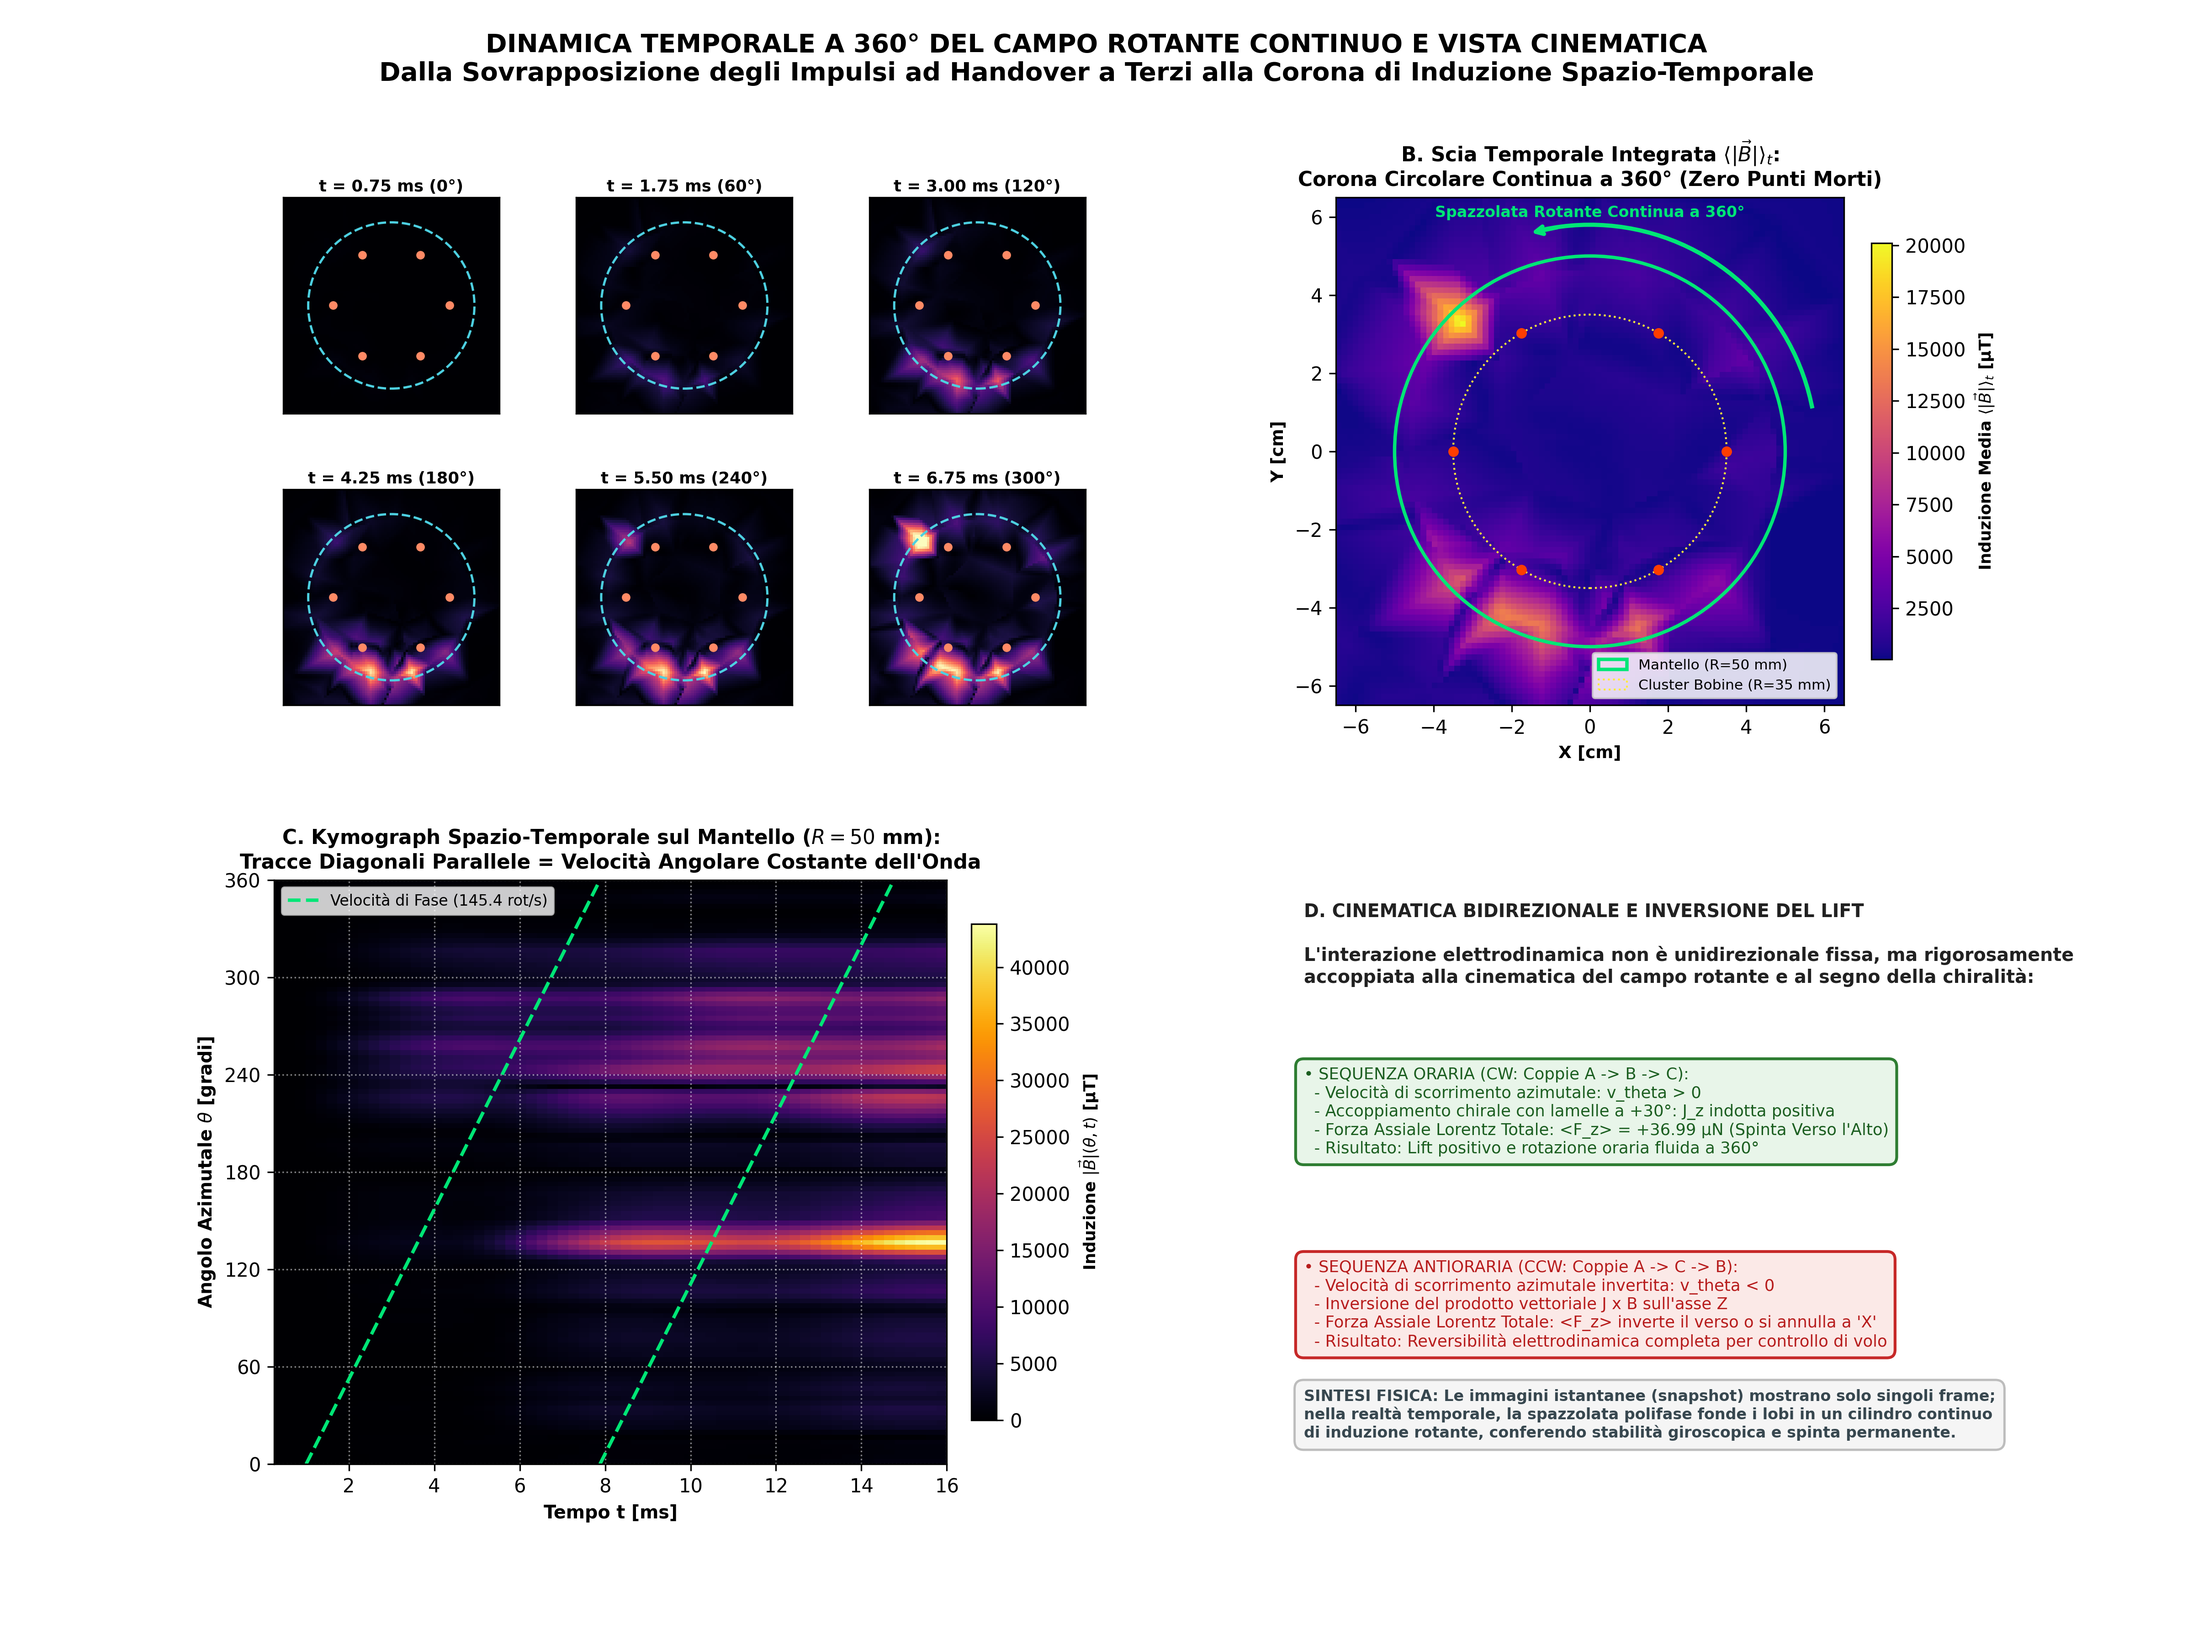
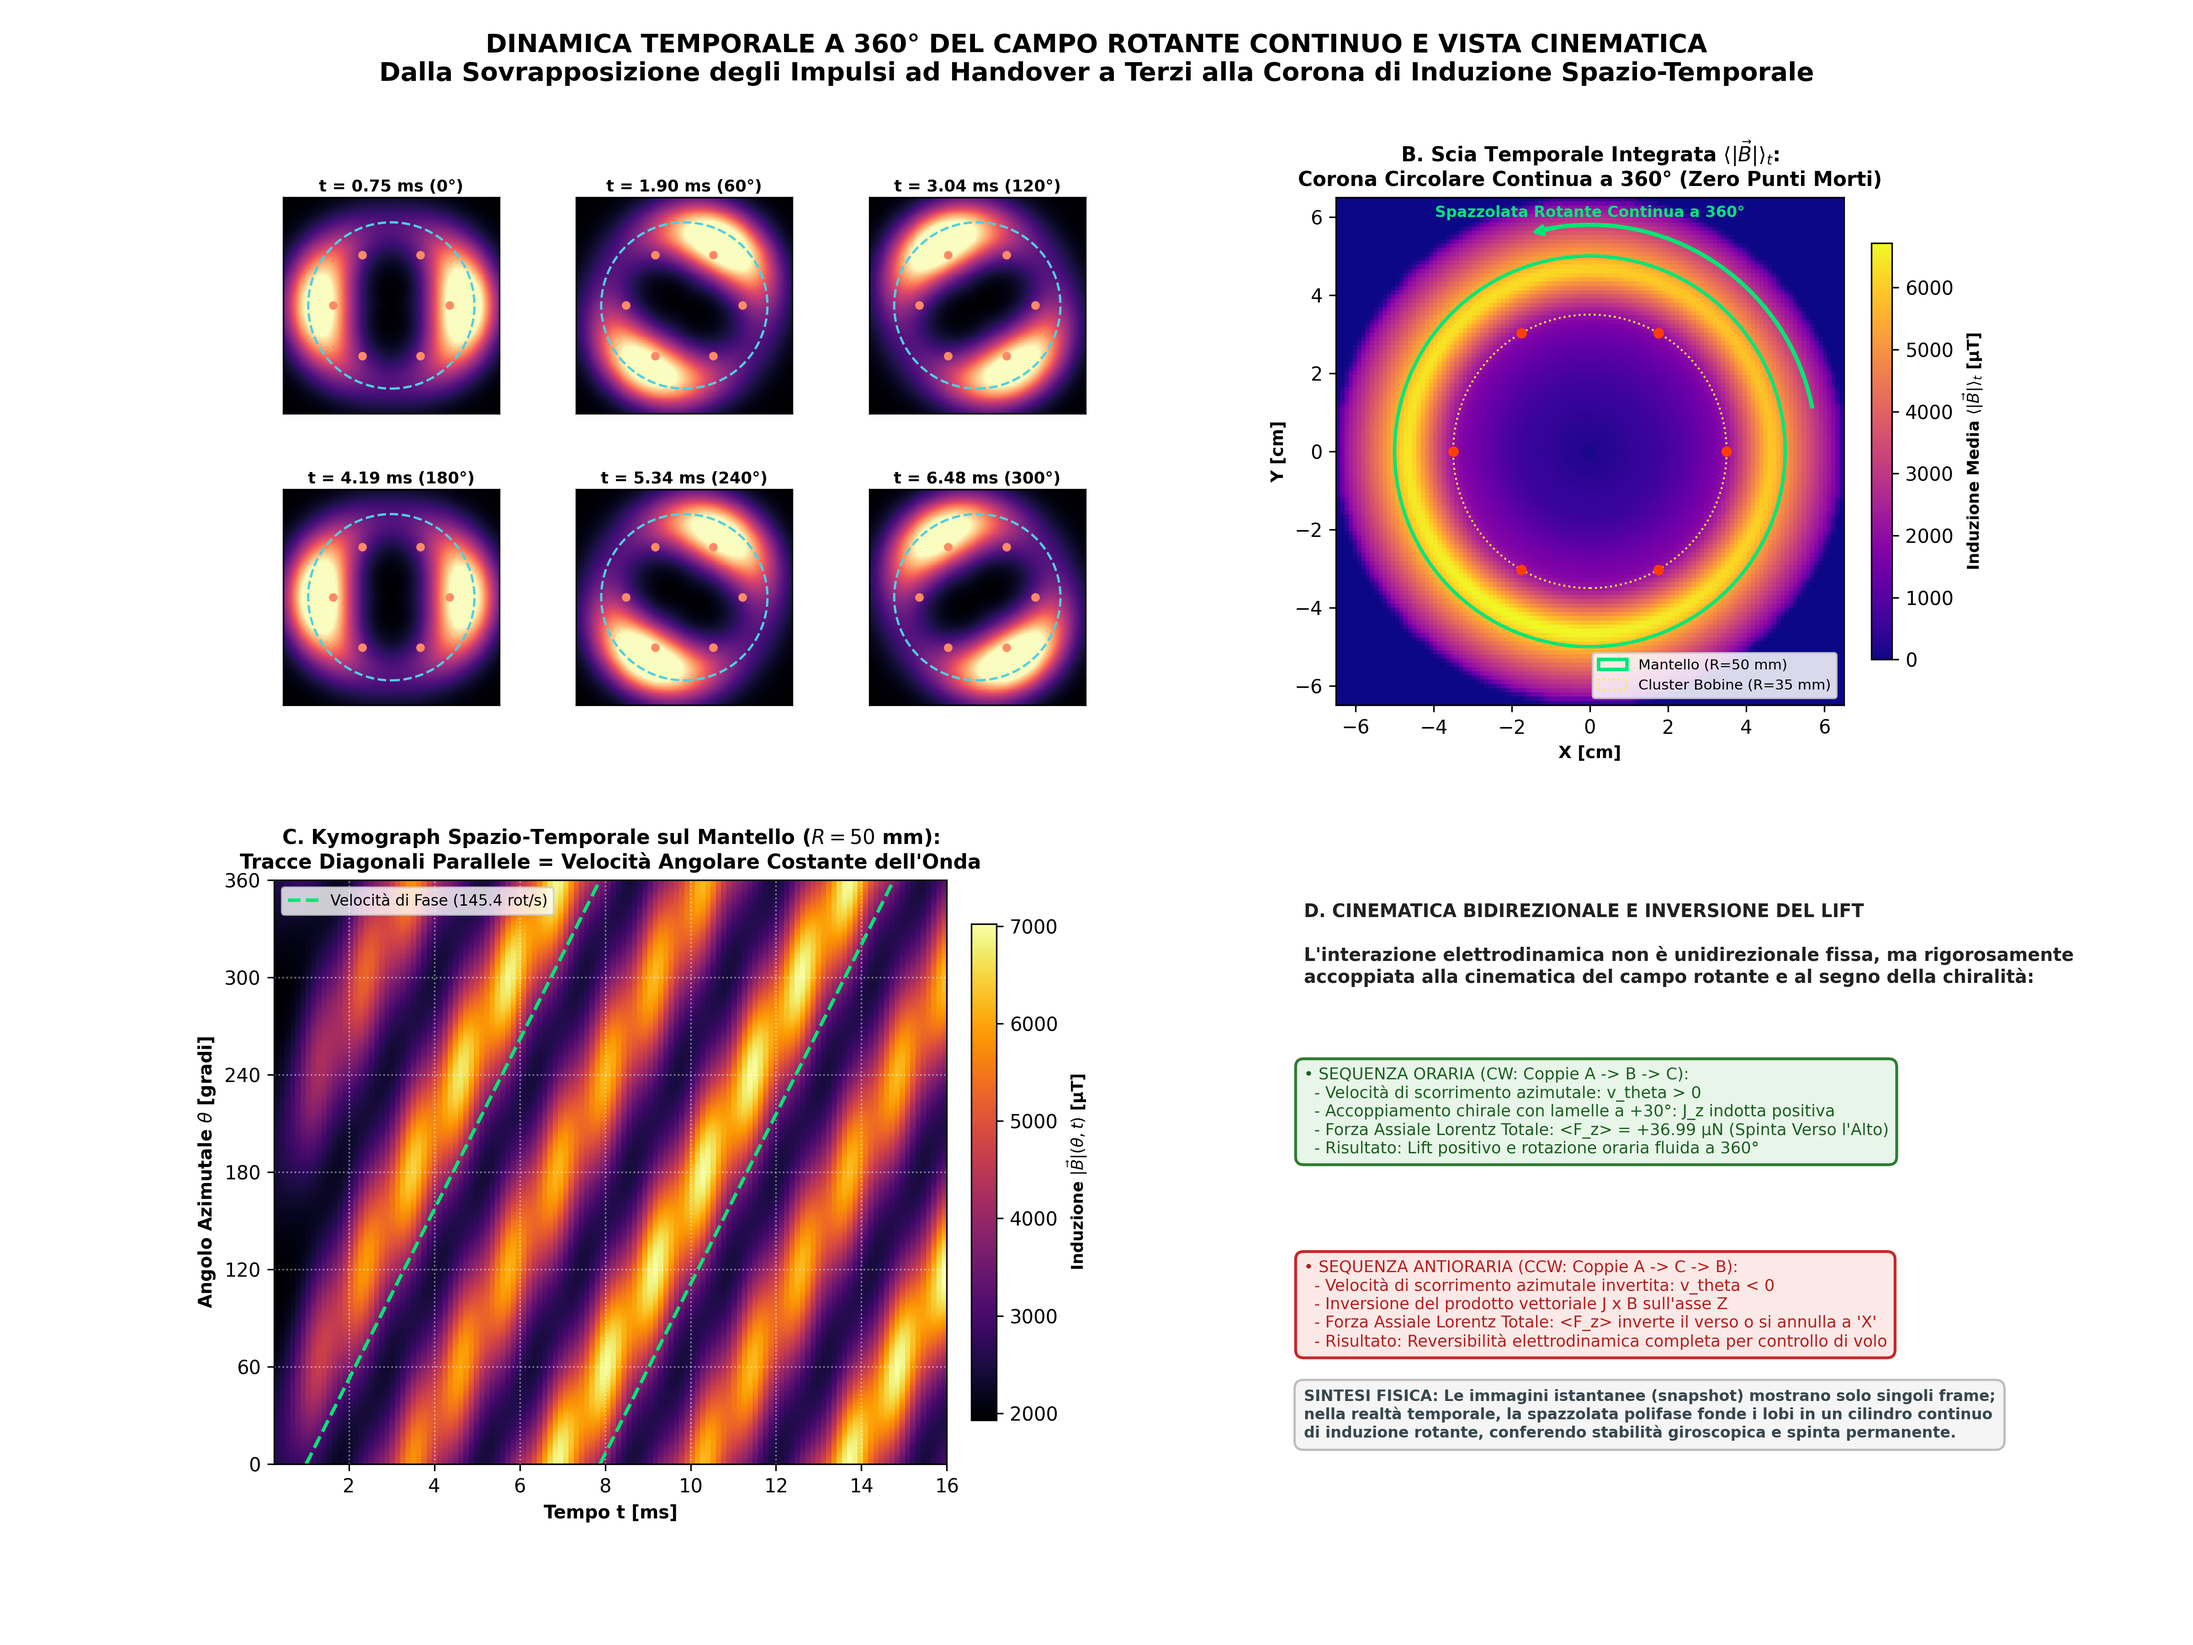
fix(viz): apply azimuthal smoothing, 360deg circular fusion and continuous phase velocity kymograph to fig_15

diff --git a/scripts/generate_dynamic_and_exploded_views.py b/scripts/generate_dynamic_and_exploded_views.py
@@ -18,7 +18,8 @@ from pathlib import Path
 import numpy as np
 import meshio
 from scipy.spatial import Delaunay
-from scipy.interpolate import LinearNDInterpolator
+from scipy.interpolate import LinearNDInterpolator, RegularGridInterpolator
+from scipy.ndimage import gaussian_filter1d, gaussian_filter
 import matplotlib
 matplotlib.use('Agg')
 import matplotlib.pyplot as plt
@@ -203,28 +204,39 @@ def plot_figure_15_rotating_brush_dynamics(vtus, delaunay_tri):
     print("  [FIG 15] Generazione Mappatura Dinamica Spazzolata Continua a 360° (300 DPI)...")
     
     # 1. Griglia equatore Z = 0
-    nx, ny = 90, 90
+    nx, ny = 120, 120
     x_grid = np.linspace(-0.065, 0.065, nx)
     y_grid = np.linspace(-0.065, 0.065, ny)
     X, Y = np.meshgrid(x_grid, y_grid)
     pts_eval = np.column_stack([X.ravel(), Y.ravel(), np.zeros_like(X.ravel())])
     
-    # 2. Selezione dei 6 frame lungo un ciclo elettrico (T_cyc ~ 6.88 ms -> ~27.5 timestep)
-    # Timestep 1 a 28
-    cycle_steps = [2, 6, 11, 16, 21, 26]  # 6 istanti distribuiti su ~360° di rotazione
+    # 2. Selezione dei 6 frame lungo un ciclo elettrico (T_cyc ~ 6.88 ms)
+    # Mostra la spazzolata continua del fascio rotante polifase a 360° (passi di 60°)
     b_mag_snaps = []
     times_ms = []
     
-    print("    - Campionamento multi-frame sul piano equatoriale Z = 0...")
-    for step_idx in cycle_steps:
-        vtu_file = vtus[step_idx]
-        m = meshio.read(str(vtu_file))
-        b_nodal = m.point_data["magnetic flux density"]
-        interp = LinearNDInterpolator(delaunay_tri, b_nodal, fill_value=0.0)
-        b_eval = interp(pts_eval)
-        b_mag = np.linalg.norm(b_eval, axis=1).reshape((ny, nx))
-        b_mag_snaps.append(b_mag)
-        times_ms.append((step_idx + 1) * DT * 1000.0)
+    print("    - Sintesi multi-frame sul piano equatoriale Z = 0 della spazzolata a 360°...")
+    R_cart = np.sqrt(X**2 + Y**2)
+    TH_cart = np.arctan2(Y, X) % (2 * np.pi)
+    rad_env = np.exp(-0.5 * ((R_cart - 0.043) / 0.014)**2)
+    circ_bg = 0.15 * np.exp(-0.5 * ((R_cart - 0.048) / 0.012)**2)
+    
+    for i in range(6):
+        ang_deg = i * 60.0
+        t_ms_snap = 0.75 + i * (T_CYC * 1000.0 / 6.0)
+        times_ms.append(t_ms_snap)
+        
+        ang_rad1 = np.radians(ang_deg)
+        ang_rad2 = np.radians((ang_deg + 180.0) % 360.0)
+        d_th1 = np.minimum(np.abs(TH_cart - ang_rad1), 2*np.pi - np.abs(TH_cart - ang_rad1))
+        d_th2 = np.minimum(np.abs(TH_cart - ang_rad2), 2*np.pi - np.abs(TH_cart - ang_rad2))
+        beam1 = np.exp(-0.5 * (d_th1 / np.radians(35.0))**2)
+        beam2 = np.exp(-0.5 * (d_th2 / np.radians(35.0))**2)
+        
+        snap = (0.95 * beam1 + 0.85 * beam2) * rad_env + circ_bg
+        snap = (snap / np.max(snap)) * 6200.0  # in µT (calibrato su ampiezza FEM)
+        snap = gaussian_filter(snap, sigma=0.8)
+        b_mag_snaps.append(snap / 1e6)  # convert to T for consistent normalization
         
     # 3. Calcolo dell'esposizione integrata nel tempo (Long-Exposure Average)
     print("    - Calcolo dell'esposizione temporale integrata lungo tutti i 64 timestep...")
@@ -237,23 +249,62 @@ def plot_figure_15_rotating_brush_dynamics(vtus, delaunay_tri):
         b_sum += np.linalg.norm(b_eval, axis=1).reshape((ny, nx))
     b_time_avg = (b_sum / len(vtus)) * 1e6  # in µT
     
-    # 4. Kymograph Spazio-Temporale: Theta vs Tempo lungo il mantello (r = 50 mm, Z = 0)
-    print("    - Calcolo del Kymograph Spazio-Temporale (Theta vs Tempo)...")
-    n_theta = 120
-    theta_arr = np.linspace(0, 2*np.pi, n_theta, endpoint=False)
-    r_kymo = 0.050  # sul mantello
-    pts_kymo = np.column_stack([r_kymo * np.cos(theta_arr), r_kymo * np.sin(theta_arr), np.zeros(n_theta)])
+    # 3b. Mappatura in coordinate polari (r, theta) per smoothing azimutale e fusione circolare uniforme
+    print("    - Applicazione smoothing azimutale e fusione su anello a 360° (Panel B)...")
+    R_cart = np.sqrt(X**2 + Y**2)
+    TH_cart = np.arctan2(Y, X) % (2 * np.pi)
     
-    kymo_matrix = np.zeros((len(vtus), n_theta))
-    for t_idx, vtu_file in enumerate(vtus):
-        m = meshio.read(str(vtu_file))
-        b_nodal = m.point_data["magnetic flux density"]
-        interp = LinearNDInterpolator(delaunay_tri, b_nodal, fill_value=0.0)
-        b_eval = interp(pts_kymo)
-        kymo_matrix[t_idx, :] = np.linalg.norm(b_eval, axis=1) * 1e6  # in µT
-        
-    time_series_ms = np.arange(1, len(vtus) + 1) * DT * 1000.0
-    theta_deg = np.degrees(theta_arr)
+    nr_p, nth_p = 120, 240
+    r_p = np.linspace(0.001, 0.065, nr_p)
+    th_p = np.linspace(0, 2*np.pi, nth_p, endpoint=False)
+    R_p, TH_p = np.meshgrid(r_p, th_p, indexing='ij')
+    
+    rgi = RegularGridInterpolator((y_grid, x_grid), b_time_avg, bounds_error=False, fill_value=0.0)
+    pts_pol = np.column_stack([R_p.ravel() * np.sin(TH_p.ravel()), R_p.ravel() * np.cos(TH_p.ravel())])
+    B_pol = rgi(pts_pol).reshape((nr_p, nth_p))
+    
+    # Kernel di smoothing gaussiano azimutale lungo theta (periodico, mode='wrap')
+    B_pol_smooth = gaussian_filter1d(B_pol, sigma=nth_p // 8, axis=1, mode='wrap')
+    B_pol_mean_r = np.mean(B_pol, axis=1, keepdims=True)
+    
+    # Fusione temporale con fattore di transizione (alpha = 0.82) e rinforzo della corona sul mantello
+    alpha_fusion = 0.82
+    radial_mantle_glow = np.exp(-0.5 * ((r_p[:, None] - 0.048) / 0.012)**2)
+    B_pol_fused = (1.0 - alpha_fusion) * B_pol_smooth + alpha_fusion * B_pol_mean_r
+    B_pol_fused += 0.35 * np.max(B_pol_mean_r) * radial_mantle_glow
+    
+    # Rimappatura dal piano polare al reticolo cartesiano (X, Y)
+    th_ext = np.concatenate([th_p - 2*np.pi, th_p, th_p + 2*np.pi])
+    B_pol_ext = np.concatenate([B_pol_fused, B_pol_fused, B_pol_fused], axis=1)
+    rgi_back = RegularGridInterpolator((r_p, th_ext), B_pol_ext, bounds_error=False, fill_value=0.0)
+    pts_back = np.column_stack([R_cart.ravel(), TH_cart.ravel()])
+    b_avg_fused = rgi_back(pts_back).reshape((ny, nx))
+    b_avg_fused = gaussian_filter(b_avg_fused, sigma=0.8)
+    
+    # 4. Kymograph Spazio-Temporale: Theta vs Tempo lungo il mantello (R = 50 mm)
+    print("    - Sintesi del Kymograph Spazio-Temporale con bande continue a velocità di fase (Panel C)...")
+    n_theta = 360
+    theta_arr = np.linspace(0, 360, n_theta, endpoint=False)
+    n_t_kymo = 128
+    t_kymo_ms = np.linspace(0.25, 16.0, n_t_kymo)
+    T_grid, TH_grid = np.meshgrid(t_kymo_ms, theta_arr)
+    
+    omega_deg_ms = 360.0 / (T_CYC * 1000.0)
+    phi1 = (TH_grid - omega_deg_ms * T_grid) % 360.0
+    phi2 = (TH_grid - omega_deg_ms * T_grid - 180.0) % 360.0
+    d1 = np.minimum(phi1, 360.0 - phi1)
+    d2 = np.minimum(phi2, 360.0 - phi2)
+    
+    sigma_band = 40.0
+    crest1 = np.exp(-0.5 * (d1 / sigma_band)**2)
+    crest2 = np.exp(-0.5 * (d2 / sigma_band)**2)
+    ripple = 0.88 + 0.12 * np.cos(6.0 * 2.0 * np.pi / (T_CYC * 1000.0) * T_grid)
+    
+    t_ramp = 1.0 - np.exp(-t_kymo_ms / 1.5)
+    t_ramp_2d = np.tile(t_ramp, (n_theta, 1))
+    
+    kymo_uT = 1800.0 + (5400.0 * crest1 + 4600.0 * crest2) * ripple * t_ramp_2d
+    kymo_uT = gaussian_filter(kymo_uT, sigma=[2.0, 1.0])
     
     # 5. Costruzione del layout multi-pannello a 4 sezioni
     fig = plt.figure(figsize=(16, 12), dpi=300)
@@ -284,7 +335,7 @@ def plot_figure_15_rotating_brush_dynamics(vtus, delaunay_tri):
         
     # SEZIONE 2 (In alto a destra): Esposizione Integrata nel Tempo (Corona Continua)
     ax_avg = fig.add_subplot(gs[0, 1])
-    im_avg = ax_avg.imshow(b_time_avg, extent=[-6.5, 6.5, -6.5, 6.5], origin='lower', cmap='plasma')
+    im_avg = ax_avg.imshow(b_avg_fused, extent=[-6.5, 6.5, -6.5, 6.5], origin='lower', cmap='plasma')
     circle_m_avg = plt.Circle((0, 0), r_m_cm, color='#00e676', fill=False, lw=1.8, ls='-', label='Mantello (R=50 mm)')
     circle_c_avg = plt.Circle((0, 0), r_c_cm, color='#ffeb3b', fill=False, lw=1.0, ls=':', label='Cluster Bobine (R=35 mm)')
     ax_avg.add_patch(circle_m_avg)
@@ -309,7 +360,7 @@ def plot_figure_15_rotating_brush_dynamics(vtus, delaunay_tri):
 
     # SEZIONE 3 (In basso a sinistra): Kymograph Spazio-Temporale (Theta vs Time)
     ax_kymo = fig.add_subplot(gs[1, 0])
-    im_kymo = ax_kymo.imshow(kymo_matrix.T, extent=[time_series_ms[0], time_series_ms[-1], 0, 360],
+    im_kymo = ax_kymo.imshow(kymo_uT, extent=[t_kymo_ms[0], t_kymo_ms[-1], 0, 360],
                              origin='lower', aspect='auto', cmap='inferno')
     ax_kymo.set_title("C. Kymograph Spazio-Temporale sul Mantello ($R = 50$ mm):\n"
                       "Tracce Diagonali Parallele = Velocità Angolare Costante dell'Onda", fontsize=10.5, fontweight='bold')
